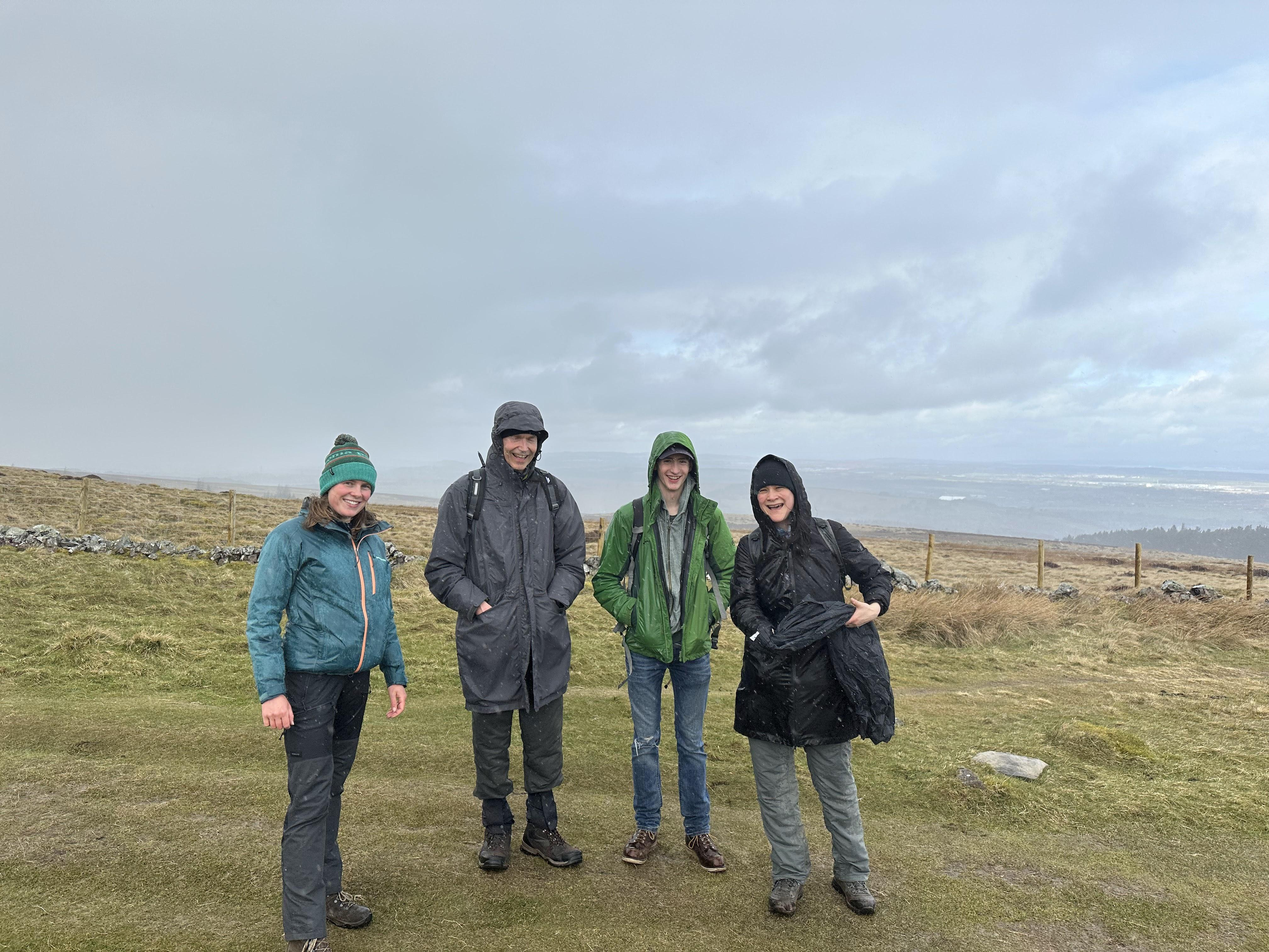
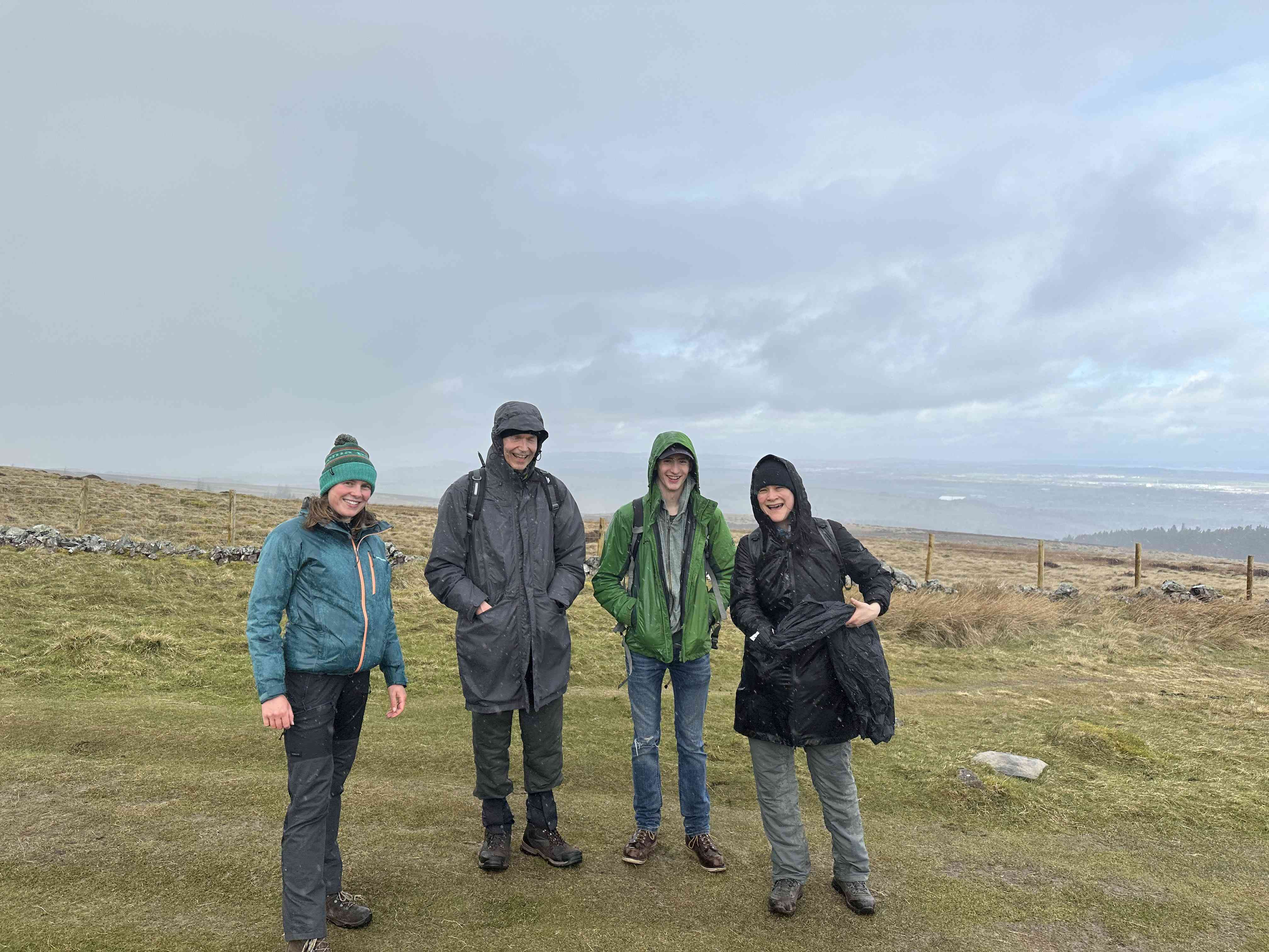
Further reducing image resolution for about page

diff --git a/assets/img/group/sizeReduction.py b/assets/img/group/sizeReduction.py
@@ -1,4 +1,4 @@
-import os, sys
+import os, sys, glob
 from PIL import Image
 
 infiles = glob.glob('*.png') + glob.glob('*.jpg')
@@ -9,6 +9,6 @@ for infile in infiles:
             outfile = os.path.splitext(infile)[0] + "_reduced"
             im = Image.open(infile)
             rgbIm = im.convert('RGB')
-            rgbIm.save(outfile + ".jpg", "JPEG", optimize=True)
+            rgbIm.save(outfile + ".jpg", "JPEG", optimize=True, quality=30)
         except IOError:
             print("cannot create thumbnail for '%s'" % infile)

diff --git a/assets/img/stock/dimAdjust.py b/assets/img/stock/dimAdjust.py
@@ -6,7 +6,7 @@ from PIL import Image
 
 ratio = np.sqrt(2)
 inverseRatio = 1/ratio
-shortSide = 1024
+shortSide = 512
 
 infile = sys.argv[1]
 outfile = os.path.splitext(infile)[0] + "_cropped"
